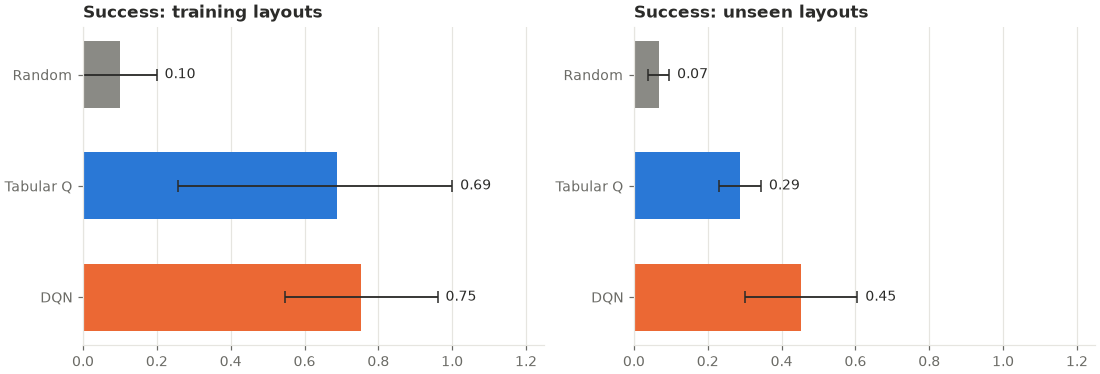
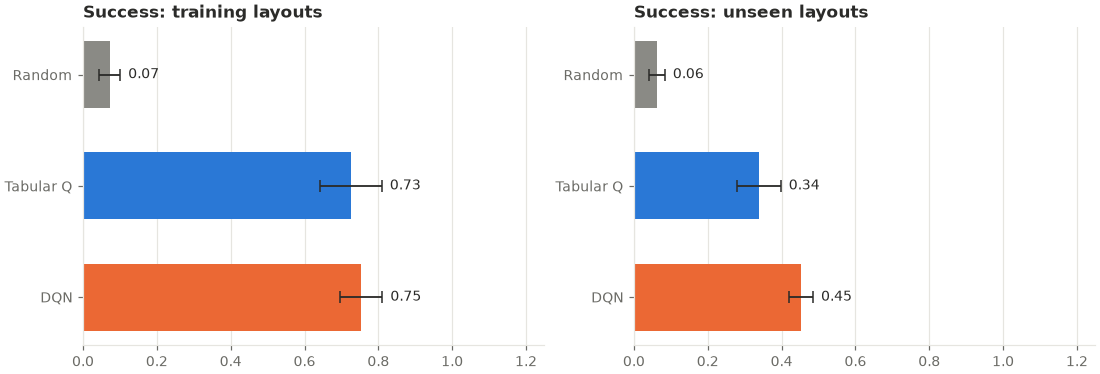
Extend generalization to 10 seeds: DQN generalizes better
With 3 seeds the smallest attainable p-value was 0.10, so DQN's lead
on unseen mazes could not be tested. With 10 seeds it holds: DQN
reached the goal in 45% of 50 unseen mazes vs 34% for tabular Q
(p = 0.003, ahead in 9 of 10 seeds), with path efficiency 0.45 vs
0.15 (p < 0.001). On the training mazes the two are level (p = 0.56),
so the advantage is specifically in transfer. Seeds 0-2 were
retrained and reproduced the earlier results exactly.

- generalization is defined with seeds 0-9; results replaced
- README, REPORT (Sections 1, 5, 6.5, 7, 9-11), notebook section 11
  and the generalization figure updated; the open-questions list now
  holds what remains unresolved (PER, how often DQN collapses)
- the notebook's significance table shows "p < 0.001", not "0.000"

diff --git a/src/evaluation.py b/src/evaluation.py
@@ -194,9 +194,9 @@ EXPERIMENTS: Dict[str, Experiment] = {
     "generalization": Experiment(
         "generalization", "maze",
         env_overrides={"layout_pool": list(POOL), "obs_mode": "local"},
-        agents=("random", "tabular_q", "dqn"), seeds=(0, 1, 2),
+        agents=("random", "tabular_q", "dqn"), seeds=tuple(range(10)),
         episodes=3000, decay_episodes=2000, eval_every=500, unseen_layouts=UNSEEN,
-        description="Train on 50 maze layouts with a local 5x5 view, test on 50 unseen layouts."),
+        description="Train on 50 maze layouts with a local 5x5 view, test on 50 unseen layouts; 10 seeds."),
 }
 
 

diff --git a/REPORT.md b/REPORT.md
@@ -2,13 +2,13 @@
 
 ## 1. Summary
 
-This project trains reinforcement-learning agents in grid worlds where they are rewarded for reaching a goal and penalised for mistakes (wall collisions, hazards, revisiting cells, timeouts), then tests whether they really make fewer mistakes. Four agents (a random baseline, tabular Q-learning, a Deep Q-Network and DQN with prioritized experience replay) were compared in five experiments with 3–10 independent seeds each, using greedy evaluation (exploration off), 95% confidence intervals and exact permutation tests.
+This project trains reinforcement-learning agents in grid worlds where they are rewarded for reaching a goal and penalised for mistakes (wall collisions, hazards, revisiting cells, timeouts), then tests whether they really make fewer mistakes. Four agents (a random baseline, tabular Q-learning, a Deep Q-Network and DQN with prioritized experience replay) were compared in five experiments with 5–10 independent seeds each, using greedy evaluation (exploration off), 95% confidence intervals and exact permutation tests.
 
 Main findings:
 
 1. **Both learning agents learned from their mistakes on every fixed layout.** Greedy success rose from 0.00–0.40 before training to 1.00 for tabular Q-learning in all three fixed-layout experiments with non-terminal hazards, and to 0.90–1.00 for DQN (p ≤ 0.008 against random in every case).
 2. **Fewer mistakes is not the same as better behaviour.** When stepping on a hazard ended the episode, DQN learned in 4 of 5 seeds to walk into the nearest hazard after 6 steps. Under the reward design, a quick death (−0.51) cost less than an unsuccessful 100-step search (about −3.6). Its mistake count fell to 0.8 per episode while its success rate was 0.20, against 1.00 for tabular Q-learning (p = 0.048).
-3. **Generalization to unseen mazes is suggestive but not established.** On 50 held-out mazes DQN succeeded 40–52% of the time per seed against 26–30% for tabular Q-learning and 6–8% for random, and DQN's successes were near-shortest paths while tabular Q's were mostly long wanders. With three seeds, however, no difference can reach p < 0.10.
+3. **DQN generalizes better to unseen mazes.** Trained on 50 mazes and tested on 50 it had never seen, DQN reached the goal 45% of the time against 34% for tabular Q-learning and 6% for random (10 seeds; DQN vs tabular p = 0.003, ahead in 9 of 10 seeds). DQN's successes on new mazes were near-shortest paths, while tabular Q's were mostly long wanders (path efficiency 0.45 vs 0.15, p < 0.001). On the training mazes the two were level.
 4. **DQN avoids hazards that tabular Q-learning walks through, but is less reliable.** With 10 seeds on the hazard maze, tabular Q-learning took a shortcut through a hazard in 9 runs and DQN in 1 (p = 0.002). One DQN run, however, solved the maze and then unlearned it before training ended, something no tabular run did.
 5. **Prioritized experience replay gave no measurable benefit** on these tasks; one of its five fixed-maze runs never solved its maze.
 
@@ -91,7 +91,7 @@ DQN's `train_freq` and `target_update` were tuned on the fixed maze during devel
 - **What.** On a fixed layout, 10 greedy episodes; with a layout pool, one episode on each of the 50 training layouts; for generalization, also one episode on each of 50 held-out layouts (seeds 1000–1049) never used in training.
 - **Metrics.** Success rate; path efficiency (optimal length ÷ steps, for successful episodes that touched no hazard, otherwise 0); steps; mistakes by type; total reward.
 - **Statistics.** Each seed contributes one value. Results are the mean across seeds ± the half-width of a 95% Student-t confidence interval. Two agents are compared with an exact two-sided permutation test on the per-seed values. With 10 seeds per agent the smallest attainable p-value is about 0.00001, with 5 seeds 2/252 ≈ 0.008, and with 3 seeds 0.10.
-- **Seeds.** 10 per agent for `hazard_maze` (first run with 5, then extended to settle an open question; Section 6.2), 5 for the other fixed-layout experiments, 3 for generalization (each DQN run there is 3,000 episodes).
+- **Seeds.** 10 per agent for `hazard_maze` and `generalization` (both first run with fewer seeds, 5 and 3, then extended to settle open questions; Sections 6.2 and 6.5), 5 for the other fixed-layout experiments.
 
 ## 6. Results
 
@@ -168,24 +168,33 @@ By mistake count alone, DQN looks almost as good as tabular Q-learning (0.8 vs 0
 
 All learning agents found the 7-step optimal path with no mistakes in every seed (p = 0.008 against random). This is the easiest task: a short path with few walls.
 
-### 6.5 Generalization to unseen mazes (`generalization`, 3 seeds, 3,000 episodes)
+### 6.5 Generalization to unseen mazes (`generalization`, 10 seeds, 3,000 episodes)
 
 Agents trained on 50 maze layouts with the local 5×5 observation, then were evaluated on those 50 layouts and on 50 they had never seen.
 
 | Agent | Success, training mazes | Success, unseen mazes | Path efficiency, unseen | Mistakes, unseen |
 |---|---|---|---|---|
-| Random | 0.10 ± 0.10 | 0.07 ± 0.03 | 0.01 ± 0.01 | 88.9 ± 1.4 |
-| Tabular Q | 0.69 ± 0.43 | 0.29 ± 0.06 | 0.12 ± 0.04 | 74.1 ± 9.8 |
-| DQN | 0.75 ± 0.21 | 0.45 ± 0.15 | 0.45 ± 0.15 | 51.9 ± 15.3 |
+| Random | 0.07 ± 0.03 | 0.06 ± 0.02 | 0.01 ± 0.00 | 89.6 ± 0.8 |
+| Tabular Q | 0.73 ± 0.08 | 0.34 ± 0.06 | 0.15 ± 0.03 | 70.4 ± 4.1 |
+| DQN | 0.75 ± 0.06 | **0.45 ± 0.03** | **0.45 ± 0.03** | **52.2 ± 3.3** |
 
-Per seed on unseen mazes: DQN 0.44, 0.52, 0.40; tabular Q 0.30, 0.26, 0.30; random 0.06, 0.08, 0.06.
+Per seed on unseen mazes (seeds 0–9):
+
+| Agent | Success per seed |
+|---|---|
+| DQN | 0.44, 0.52, 0.40, 0.50, 0.42, 0.40, 0.46, 0.44, 0.52, 0.42 |
+| Tabular Q | 0.30, 0.26, 0.30, 0.42, 0.30, 0.44, 0.30, 0.30, 0.50, 0.26 |
+| Random | 0.06, 0.08, 0.06, 0.04, 0.06, 0.08, 0.02, 0.02, 0.08, 0.12 |
 
 ![Success on training and unseen mazes](docs/figures/generalization_success.png)
 
-- **Both learners transfer something** to unseen mazes, beating random in every seed, but neither comes close to its training-set performance.
-- **DQN was ahead of tabular Q-learning in every seed** (difference +0.17), but with three seeds the smallest attainable p-value is 0.10, so this is **not statistically established**.
-- **The quality of the successes differs.** DQN's path efficiency on unseen mazes equals its success rate: when it succeeds, it takes a near-shortest path. Tabular Q-learning's efficiency (0.12) is far below its success rate (0.29), so most of its unseen successes are long wanders that happen to reach the goal.
-- **Learning speed differs.** DQN reached 0.67 greedy success on the training mazes by episode 500 and plateaued around 0.7. Tabular Q-learning was still climbing at episode 3,000 (0.17 → 0.37 → 0.49 → 0.51 → 0.63 → 0.69 at 500-episode intervals) and might match DQN on the training mazes with a longer budget.
+- **Both learners transfer something** to unseen mazes, beating random in every seed (p < 0.001), but neither comes close to its training-set performance.
+- **DQN generalizes better than tabular Q-learning:** +0.11 success on unseen mazes, **p = 0.003**, and ahead in 9 of 10 seeds. With the original 3 seeds DQN was ahead in every seed, but the smallest attainable p-value was 0.10; extending to 10 seeds settled it.
+- **The quality of the successes differs even more.** DQN's path efficiency on unseen mazes equals its success rate: when it succeeds, it takes a near-shortest path. Tabular Q-learning's efficiency (0.15) is far below its success rate (0.34), so most of its unseen successes are long wanders that happen to reach the goal. The efficiency difference is +0.30 (p < 0.001).
+- **On the training mazes there is no difference** (0.75 vs 0.73, p = 0.56). The advantage is specifically in transfer, which fits DQN's network generalising between similar local views, where the table can only look up views it has seen.
+- **Learning speed differs.** Averaged over 10 seeds, DQN reached 0.69 greedy success on the training mazes by episode 500 and then stayed between 0.64 and 0.75. Tabular Q-learning was still climbing at episode 3,000 (0.20 → 0.35 → 0.42 → 0.56 → 0.66 → 0.73 at 500-episode intervals) and might eventually overtake DQN on the training mazes with a longer budget; whether its transfer would improve too is untested.
+
+The 3 original runs per agent were retrained from scratch and reproduced the earlier results exactly (all 18 values), as with `hazard_maze`.
 
 A development check with the full-map observation showed tabular Q-learning near random on unseen layouts (6–10% success): every new layout produces observations the table has never seen.
 
@@ -200,7 +209,7 @@ A development check with the full-map observation showed tabular Q-learning near
 
 **Reward design shapes what counts as a mistake.** With terminal hazards and per-step penalties, dying is the reward-maximising choice for an agent that cannot yet find the goal. Whether that is a "mistake" depends on the designer's intent, not on the agent's objective.
 
-**Tabular Q-learning versus DQN.** Each has a clear strength. Tabular Q-learning is faster (greedy-perfect within 50 episodes on the fixed maze), far cheaper per step, and completely reliable on fixed layouts (25 of 25 runs reached the goal). DQN finds the safe route on the hazard maze where tabular Q-learning settles on a hazard shortcut (Section 6.2), and it may generalise better to unseen mazes (not yet established). But DQN can unlearn a solved task late in training. Tabular Q-learning also benefits from optimistic initialisation, which DQN lacks, and that difference explains the terminal-hazard result.
+**Tabular Q-learning versus DQN.** Each has a clear strength. Tabular Q-learning is faster (greedy-perfect within 50 episodes on the fixed maze), far cheaper per step, and completely reliable on fixed layouts (25 of 25 runs reached the goal). DQN finds the safe route on the hazard maze where tabular Q-learning settles on a hazard shortcut (Section 6.2), and it generalises better to unseen mazes, with more successes and far more direct paths (Section 6.5). But DQN can unlearn a solved task late in training. Tabular Q-learning also benefits from optimistic initialisation, which DQN lacks, and that difference explains the terminal-hazard result.
 
 **Prioritized replay.** On tasks this small, replaying surprising transitions more often gave no benefit, and one PER run converged to a stuck policy. A single failure in five seeds is not evidence that PER hurts.
 
@@ -219,11 +228,11 @@ These are reported because each would have changed the conclusions.
 ## 9. Limitations
 
 - **Small tasks.** 8×8 and 9×9 grids with 100-step episodes, chosen to fit a free CPU. The ranking of algorithms may change on larger problems.
-- **Few seeds.** Five per agent for most experiments (three for generalization) can show large effects only; extending `hazard_maze` from 5 to 10 seeds turned a "not established" difference into an established one. The remaining open questions might be settled the same way.
+- **Few seeds.** Five per agent for three of the five experiments can show large effects only. Extending `hazard_maze` and `generalization` to 10 seeds turned two "not established" differences into established ones; the remaining open questions (PER, how often DQN collapses) might be settled the same way.
 - **Limited tuning.** One hyperparameter setting per algorithm. DQN's update frequency and target-update interval were chosen from four settings on the fixed maze; tabular Q-learning was not tuned at all.
 - **Fixed training budgets.** Tabular Q-learning was still improving at the end of the generalization runs.
 - **Non-Markovian revisit penalty**, as described in Section 3.
-- **Statistics.** t-intervals on 3–10 bounded values are approximate; the charts clip them to the possible range.
+- **Statistics.** t-intervals on 5–10 bounded values are approximate; the charts clip them to the possible range.
 
 ## 10. Reproducibility
 
@@ -237,13 +246,13 @@ python -m src.visualization                             # regenerates docs/figur
 python -m pytest -q                                     # 154 tests
 ```
 
-The saved outputs in `results/<experiment>/` are `summary.csv` (mean and CI per agent), `results.csv` (per seed), `curves.csv` (greedy learning curves), `experiment.json` (exact settings) and `run.log`. Experiments are resumable. `generalization` was interrupted when a working session ended and was completed by rerunning the same command, as its log records. `hazard_maze` was extended to 10 seeds by training all 40 runs in parallel worker processes and then aggregating them with the same runner; its first 5 seeds reproduced the original results exactly.
+The saved outputs in `results/<experiment>/` are `summary.csv` (mean and CI per agent), `results.csv` (per seed), `curves.csv` (greedy learning curves), `experiment.json` (exact settings) and `run.log`. Experiments are resumable: an interrupted run continues from its last checkpoint when the same command is rerun. `hazard_maze` and `generalization` were extended to 10 seeds by training all their runs in parallel worker processes and aggregating them with the same runner; their original seeds (0–4 and 0–2) were retrained and reproduced the earlier results exactly.
 
 Results were produced on a Windows 11 laptop CPU with Python 3.11.9, PyTorch 2.14.1 (CPU), NumPy 2.4.6, Matplotlib 3.11.2, pandas 3.0.6 and Gradio 6.30.0. Exact reproduction is guaranteed for the same software on the same machine. Other platforms should give statistically similar but not bit-identical numbers, because floating-point results can differ between builds.
 
 ## 11. Future work
 
-- More seeds (10–20) for the remaining open questions: generalization and PER.
+- More seeds (10–20) for the remaining open question about PER, and more runs to estimate how often DQN collapses.
 - The late DQN collapse (Section 6.2): whether it is rare with more seeds, and whether a lower learning rate, a slower target update or early stopping on greedy evaluation prevents it.
 - A larger layout pool, convolutional networks for the full-map observation, and longer training for the generalization study.
 - Optimistic initialisation or count-based exploration bonuses for DQN, to test the explanation of the terminal-hazard failure.

diff --git a/README.md b/README.md
@@ -9,7 +9,7 @@
 
 Reinforcement-learning agents explore grid worlds, get **rewarded** for reaching the goal and **penalised** for mistakes (hitting walls, stepping on hazards, revisiting cells, running out of time), and are then tested to see whether they actually got better. Everything runs on a free CPU: Google Colab or a laptop.
 
-The project compares a random baseline, tabular Q-learning, a Deep Q-Network (DQN) and DQN with prioritized experience replay across five experiments, 3–10 seeds each, with greedy evaluation, 95% confidence intervals and permutation tests. It includes an interactive **Gradio dashboard** and a mildly sarcastic commentator.
+The project compares a random baseline, tabular Q-learning, a Deep Q-Network (DQN) and DQN with prioritized experience replay across five experiments, 5–10 seeds each, with greedy evaluation, 95% confidence intervals and permutation tests. It includes an interactive **Gradio dashboard** and a mildly sarcastic commentator.
 
 ![Mistakes at each cell early vs late in training](docs/figures/mistake_heatmap.png)
 
@@ -25,7 +25,7 @@ All numbers are **greedy** (exploration off), averaged across seeds, ± a 95% co
 | `hazard_maze`: 4 hazards (−0.5 each), 10 seeds | 0.15 ± 0.05 | **1.00** ± 0.00 | 0.90 ± 0.23 | **1.00** ± 0.00 |
 | `terminal_hazards`: a hazard ends the episode | 0.00 ± 0.00 | **1.00** ± 0.00 | 0.20 ± 0.56 | — |
 | `open_hazards`: 8×8 open grid, 5 hazards | 0.40 ± 0.23 | **1.00** ± 0.00 | **1.00** ± 0.00 | **1.00** ± 0.00 |
-| `generalization`: **unseen** mazes, 3 seeds | 0.07 ± 0.03 | 0.29 ± 0.06 | 0.45 ± 0.15 | — |
+| `generalization`: **unseen** mazes, 10 seeds | 0.06 ± 0.02 | 0.34 ± 0.06 | **0.45** ± 0.03 | — |
 
 *Success rate (fraction of greedy episodes that reach the goal).*
 
@@ -34,10 +34,12 @@ All numbers are **greedy** (exploration off), averaged across seeds, ± a 95% co
 - **Mistake counts alone can lie.** When hazards end the episode, DQN learned to walk into one in 4 of 5 seeds: dying quickly (−0.51) was cheaper than wandering for 100 steps (about −3.6). Its mistake count looked better than random's while its success rate was 0.20 (vs 1.00 for tabular Q, p = 0.048).
 - **DQN learns to avoid hazards that tabular Q-learning walks through.** On `hazard_maze` the safe route is 18 steps and a 12-step route crosses one hazard (−0.5, a worse total reward). Tabular Q took the hazard shortcut in 9 of 10 seeds, DQN in 1 of 10 (p = 0.002) and DQN + PER in 3 of 10 (p = 0.02 against tabular Q).
 - **But DQN is less reliable.** One of DQN's 10 hazard-maze runs solved the maze from episode 150 to 350, then unlearned it and ended the run walking into a wall, and one DQN + PER run on `fixed_maze` never solved its maze at all. Tabular Q reached the goal in all 25 of its fixed-layout runs.
+- **DQN generalizes better to mazes it has never seen.** Trained on 50 mazes and tested on 50 new ones, DQN reached the goal in 45% of unseen mazes against 34% for tabular Q (p = 0.003), and was ahead in 9 of 10 seeds. Its successes on new mazes were near-shortest paths (path efficiency 0.45 vs 0.15, p < 0.001), while tabular Q's were mostly long wanders. On the training mazes the two were level (0.75 vs 0.73, p = 0.56).
 - **Prioritized replay did not help** on these small tasks.
 
 **What it does not (yet) support**
-- On unseen mazes DQN was ahead of tabular Q on every seed (0.40–0.52 vs 0.26–0.30), but with 3 seeds the smallest possible p-value is 0.10. More seeds are needed before claiming it generalizes better.
+- Whether prioritized replay helps or hurts: DQN + PER never differed significantly from plain DQN.
+- How common DQN's late collapse is: it happened in 1 of 10 hazard-maze runs, too few to estimate a rate.
 
 | Learning to avoid mistakes (fixed maze) | When fewer mistakes is not better (terminal hazards) |
 |---|---|
@@ -89,7 +91,7 @@ python -m src.evaluation --experiment fixed_maze --seeds 2 --agents random tabul
 python -m src.visualization                                   # regenerate docs/figures from results/
 ```
 
-Experiments are **resumable**: if Colab disconnects, run the same command again and finished runs are skipped while interrupted ones continue from their last checkpoint. On a laptop CPU the four fixed-layout experiments take roughly 10–30 minutes each (DQN dominates the time); `generalization`, with 3,000 episodes per run, takes considerably longer.
+Experiments are **resumable**: if Colab disconnects, run the same command again and finished runs are skipped while interrupted ones continue from their last checkpoint. On a laptop CPU the four fixed-layout experiments take roughly 10–30 minutes each (DQN dominates the time); `generalization` (3,000 episodes per run, about 9 minutes per DQN run) takes a few hours with all 10 seeds.
 
 ## How it works
 
@@ -153,7 +155,7 @@ LICENSE             MIT License
 ## Limitations
 
 - Small grids (8×8 and 9×9) and short training budgets chosen for a free CPU; results may not hold for larger tasks.
-- 3–10 seeds per experiment: enough to show large differences, not small ones.
+- 5–10 seeds per experiment: enough to show large differences, not small ones.
 - One set of hyperparameters per algorithm, tuned on the fixed maze only.
 - The revisit penalty depends on history the observation does not include, so that part of the reward is not Markovian.
 

diff --git a/CHANGELOG.md b/CHANGELOG.md
@@ -2,6 +2,11 @@
 
 What each stage of MIND added or changed, with the reason behind each change.
 
+## generalization with 10 seeds
+
+- `generalization` now uses 10 seeds (was 3). With 3 seeds no difference could reach p < 0.10; with 10, DQN generalizes better than tabular Q-learning: 45% vs 34% success on 50 unseen mazes (p = 0.003, ahead in 9 of 10 seeds), with path efficiency 0.45 vs 0.15 (p < 0.001). On the training mazes they are level (p = 0.56). Seeds 0–2 were retrained and reproduced the earlier results exactly. `results/generalization`, README, REPORT (Sections 1, 5, 6.5, 7, 9–11), notebook section 11 and the generalization figure are updated.
+- The notebook's significance table uses the shared p-value formatter, so it shows "p < 0.001" instead of "0.000".
+
 ## hazard_maze with 10 seeds
 
 - `hazard_maze` now uses 10 seeds (was 5). The hazard-shortcut difference that was not established with 5 seeds (p = 0.21) is established with 10: tabular Q-learning crossed a hazard in 9 of 10 runs, DQN in 1 (p = 0.002). One DQN run solved the maze and then unlearned it, so DQN's success is 0.90. Seeds 0–4 were retrained and reproduced the earlier results exactly. `results/hazard_maze`, the README, REPORT (Sections 1, 5, 6.2, 7–11), notebook section 11 and the hazard figure are updated.
